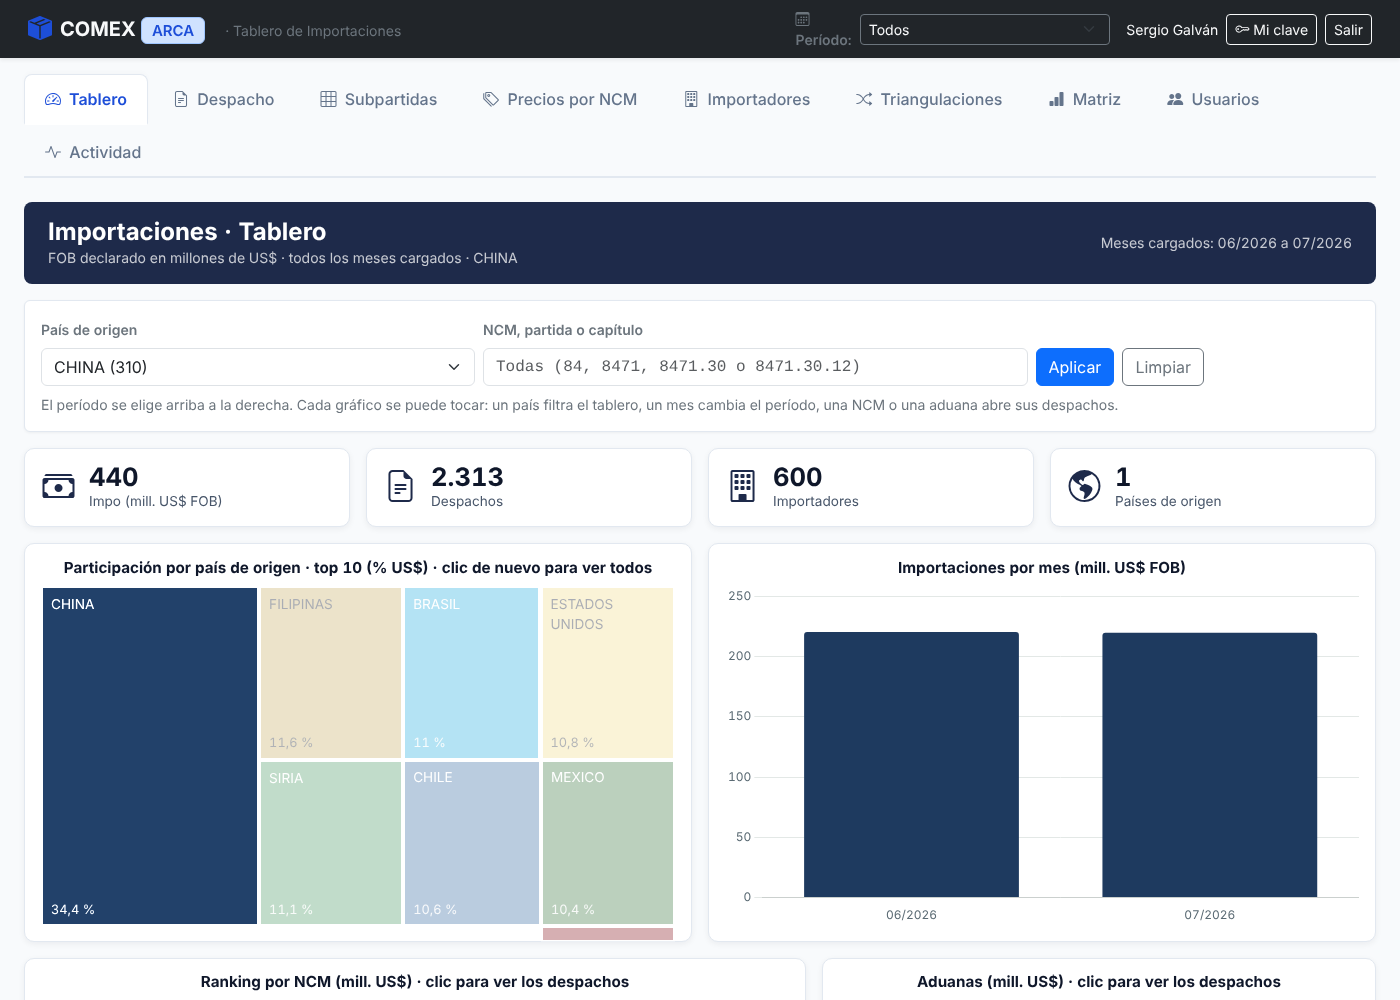
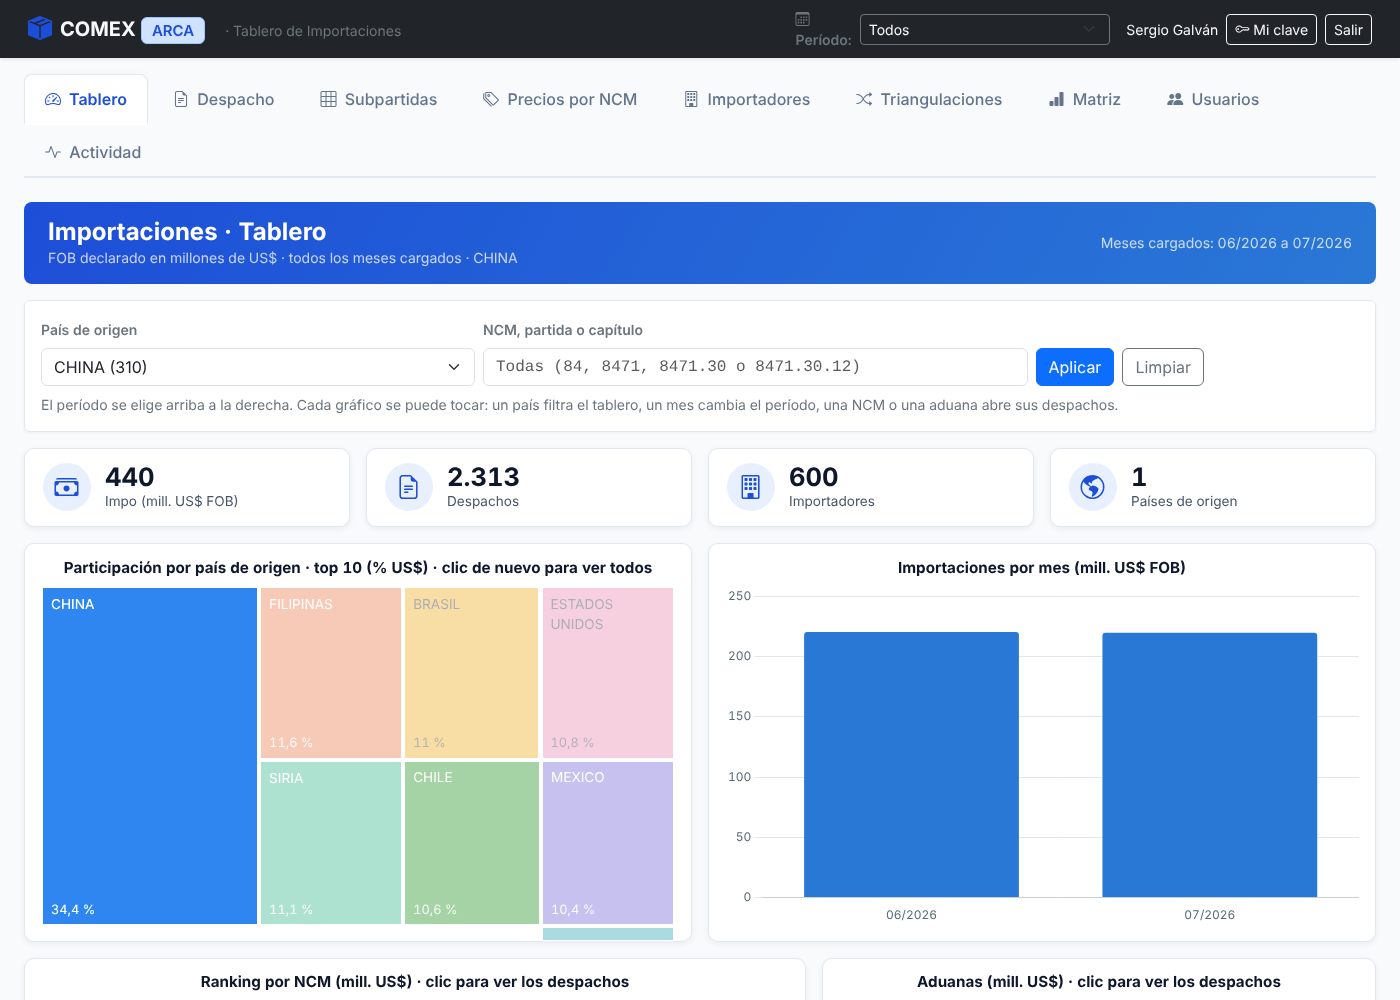
Cambios estéticos en Tablero

diff --git a/api/public/js/impo.js b/api/public/js/impo.js
@@ -1594,8 +1594,10 @@ cargarPeriodos().then(cargarTablero);   // el Tablero es la pestaña de inicio; 
 // mensual, ranking de NCM y de aduanas. Todo se puede tocar: un país filtra el
 // tablero, un mes cambia el período, una NCM o una aduana abre sus despachos.
 const tbEstado = { periodo: undefined, pais: '', ncm: '', datos: null, graficos: [], pedido: 0, filtrosListos: false };
-const PALETA_MOSAICO = ['#1e3a5f', '#c9b26b', '#4f9d69', '#2ab0e0', '#f2df8f', '#3b6ea5', '#3f7a46', '#8b1e24', '#9aa5b1', '#a9d6f5', '#cbd5e1'];
-const TEXTO_OSCURO = new Set(['#c9b26b', '#f2df8f', '#a9d6f5', '#cbd5e1', '#9aa5b1']);
+// Paleta propia de la página: la de la Matriz más tres tonos, y gris para "Resto"
+const PALETA_MOSAICO = [...COLORES, '#0e9aa7', '#b4552d', '#5b6b74', GRIS_RESTO];
+const TEXTO_OSCURO = new Set(['#eda100', '#e87ba4', GRIS_RESTO]);
+const AZUL_TABLERO = '#2a78d6';
 const enMillones = (v) => fmtNum.format(Math.round(v / 1e5) / 10);
 
 function prepararFiltrosTablero() {
@@ -1671,7 +1673,7 @@ function dibujarTablero(d) {
 
   dibujarMosaico($('#tb-mosaico'), d.paises);
 
-  const color = '#1e3a5f';
+  const color = AZUL_TABLERO;
   const ejeMillones = { grid: { color: '#e3e8e6' }, border: { display: false }, ticks: { color: '#5b6b74', callback: (v) => enMillones(v) } };
   const cursor = (evt, els) => { evt.native.target.style.cursor = els.length ? 'pointer' : 'default'; };
 
@@ -1680,7 +1682,7 @@ function dibujarTablero(d) {
     type: 'bar',
     data: {
       labels: d.meses.map((m) => mes(m.periodo)),
-      datasets: [{ data: d.meses.map((m) => m.fob), backgroundColor: d.meses.map((m) => (!periodo() || String(m.periodo) === periodo() ? color : '#94a3b8')), borderRadius: 3 }],
+      datasets: [{ data: d.meses.map((m) => m.fob), backgroundColor: d.meses.map((m) => (!periodo() || String(m.periodo) === periodo() ? color : '#bcd3f2')), borderRadius: 3 }],
     },
     options: {
       maintainAspectRatio: false, animation: false,
@@ -1717,7 +1719,7 @@ function dibujarTablero(d) {
   // Aduanas: clic = despachos de esa aduana con los filtros del tablero
   tbEstado.graficos.push(new Chart($('#tb-aduanas'), {
     type: 'bar',
-    data: { labels: d.aduanas.map((x) => `${x.descrip || x.codigo} (${x.codigo})`), datasets: [{ data: d.aduanas.map((x) => x.fob), backgroundColor: '#3b6ea5', borderRadius: 2 }] },
+    data: { labels: d.aduanas.map((x) => `${x.descrip || x.codigo} (${x.codigo})`), datasets: [{ data: d.aduanas.map((x) => x.fob), backgroundColor: '#1baf7a', borderRadius: 2 }] },
     options: {
       indexAxis: 'y', maintainAspectRatio: false, animation: false,
       scales: { x: { ...ejeMillones, position: 'top' }, y: { grid: { display: false }, ticks: { color: '#1d2b36', font: { size: 11 }, autoSkip: false } } },
@@ -1738,7 +1740,7 @@ function dibujarMosaico(contenedor, paises) {
   const W = contenedor.clientWidth || 600;
   const H = contenedor.clientHeight || 340;
   const total = paises.reduce((s, p) => s + p.fob, 0);
-  const items = paises.map((p, i) => ({ ...p, area: (p.fob / total) * W * H, color: p.codigo ? PALETA_MOSAICO[i % 10] : PALETA_MOSAICO[10] }));
+  const items = paises.map((p, i) => ({ ...p, area: (p.fob / total) * W * H, color: p.codigo ? PALETA_MOSAICO[i % 10] : GRIS_RESTO }));
   const celdas = [];
   let x = 0; let y = 0; let w = W; let h = H;
   const peor = (fila, lado) => {

diff --git a/api/public/css/impo.css b/api/public/css/impo.css
@@ -353,13 +353,16 @@ tr.fila-clic:hover td { background-color: #eef4ff; }
 }
 
 /* ---------- tablero ---------- */
-.tablero-cabecera { background: #1e2a4a; color: #fff; }
+.tablero-cabecera { background: linear-gradient(120deg, var(--sello) 0%, #2a78d6 100%); color: #fff; }
 .kpi {
   background: var(--hoja, #fff); border: 1px solid #e2e8f0; border-radius: 10px;
   box-shadow: 0 2px 6px rgba(15, 23, 42, 0.06); padding: 0.9rem 1.1rem; height: 100%;
   display: flex; align-items: center; gap: 0.9rem;
 }
-.kpi .icono { font-size: 2rem; color: #1e2a4a; }
+.kpi .icono {
+  font-size: 1.5rem; color: var(--sello); background: #e8f0fd; border-radius: 50%;
+  width: 3rem; height: 3rem; display: flex; align-items: center; justify-content: center; flex-shrink: 0;
+}
 .kpi .valor { font-size: 1.6rem; font-weight: 700; line-height: 1.1; color: #0f172a; }
 .kpi .nombre { font-size: 0.85rem; color: #475569; }
 .kpi .variacion { font-size: 0.78rem; font-weight: 600; }
